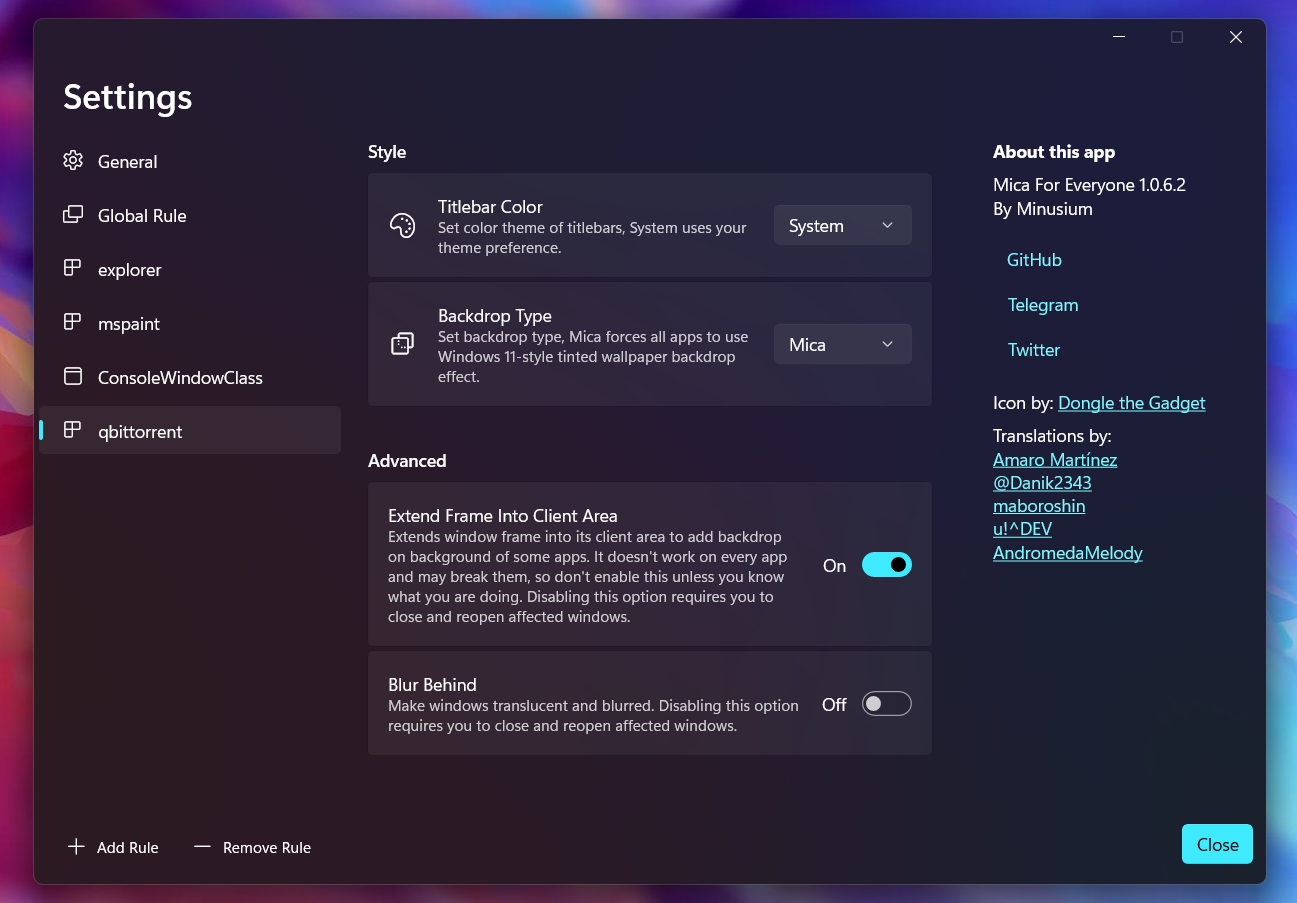
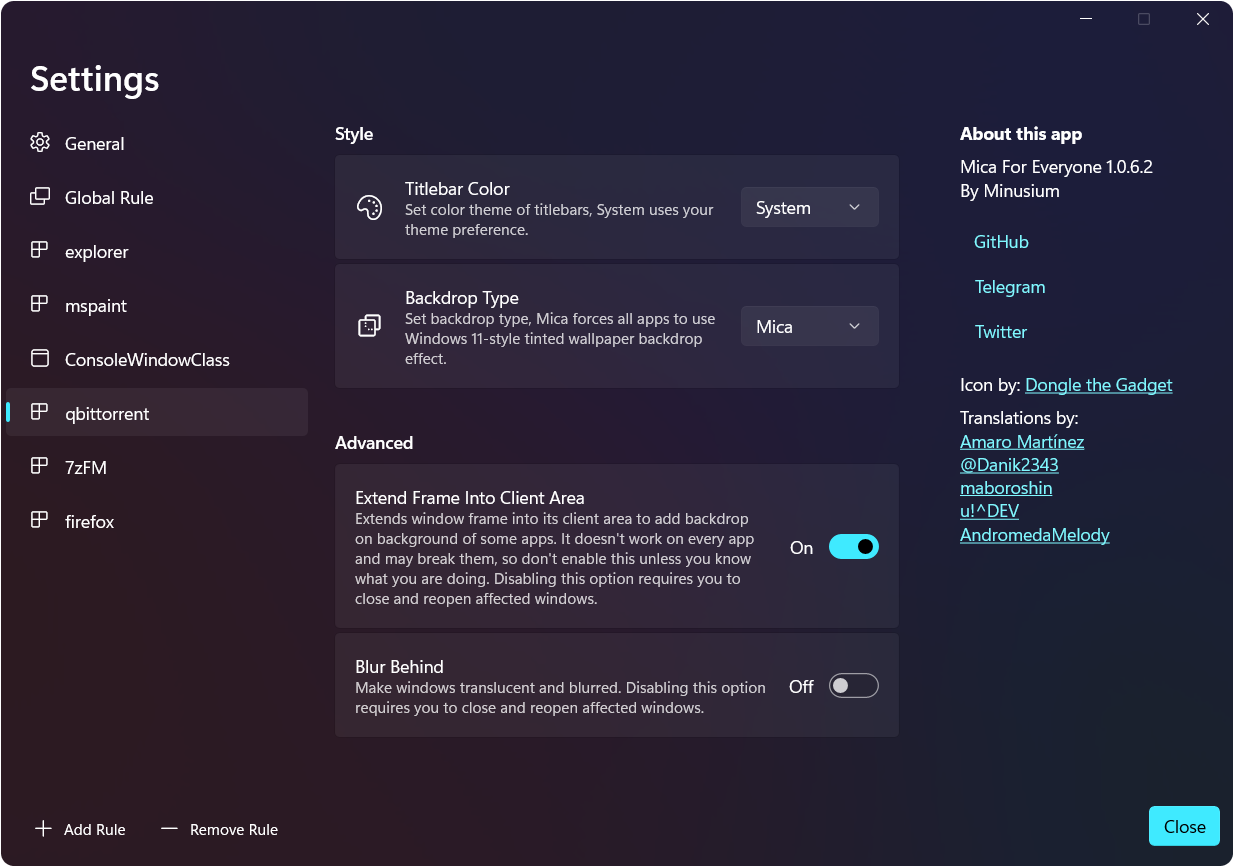
updated qbittorrent theme preview

diff --git a/README.md b/README.md
@@ -38,7 +38,11 @@ If you want the theme to work correctly use these settings:
 ##### In case mica themes act like normal themes after computer restarts, make sure to toggle on `Run on Startup` setting in `General` tab
 
 ## qBitTorrent Fluent Theme
-<p align="center"><b>Dark|Light Themes</b></p>
+<p align="center"><b>Dark|Light Themes with Fluent Icons</b></p>
 
 ![Image 4](images/qbittorrent.png)
+
+<p align="center"><b>Dark|Light Themes with Default icons</b></p>
+
+![Image 4](images/defaulticons-qbittorrent.png)
 
